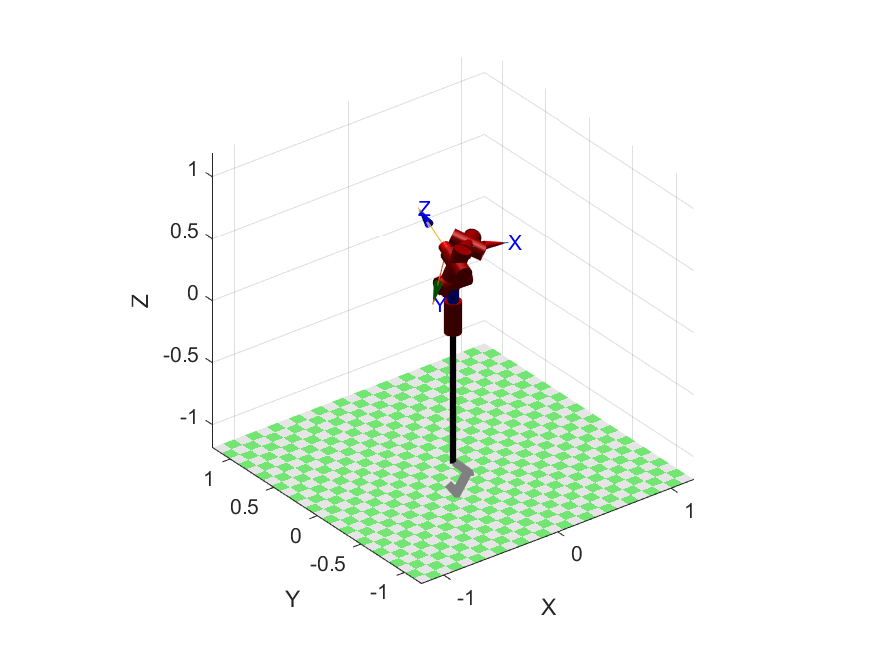
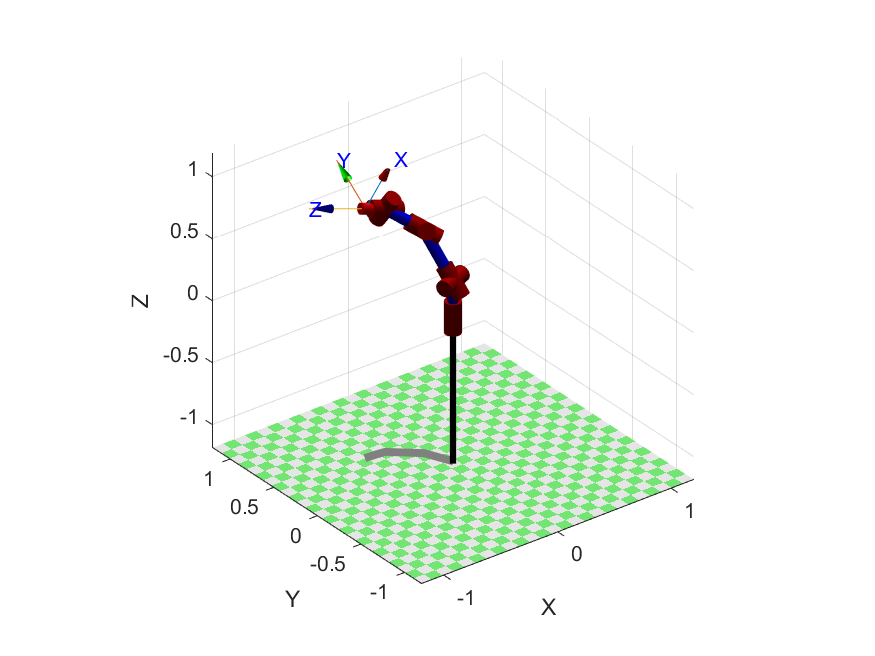
updates projeto-1

Changed region(s): [[0.3394, 0.2439, 0.5863, 0.4878], [0.4011, 0.6707, 0.5554, 0.7622], [0.3703, 0.2439, 0.4011, 0.2744]]

diff --git a/projetos/projeto-1/jacob_punho.m b/projetos/projeto-1/jacob_punho.m
@@ -1,0 +1,39 @@
+function [J05_real,J05]=jacob_punho(q)
+    kinova = kinova_punho_dh();
+    J05_real = kinova.jacob0(q);
+    
+    R01 = rotz(rad2deg(q(1)))*rotx(-90);
+    R02 = R01*rotx(90)*rotz(rad2deg(q(2)));
+    R03 = R02*rotx(-90)*rotz(rad2deg(q(3)));
+    R04 = R03*rotx(90)*rotz(rad2deg(q(4)));
+    
+    h1 = [0;0;1];
+    h2 = [0;0;1];
+    h3 = [0;0;1];
+    h4 = [0;0;1];
+    
+    h10 = R01*h1;
+    h20 = R02*h2;
+    h30 = R03*h3;
+    h40 = R04*h4;
+    
+    h10_hat = skew(h10);
+    h20_hat = skew(h20);
+    h30_hat = skew(h30);
+    h40_hat = skew(h40);
+    
+    p45 = [0;0;0.3413];
+    p34 = [0;0;0];
+    p23 = [0;0;0.4208];
+    p12 = [0;0;0];
+    
+    p450 = R04*p45
+    p350 = R03*p34+p450
+    p250 = R02*p23+p350
+    p150 = R01*p12+p250
+ 
+    J05 = [
+        h10_hat*p150 h20_hat*p250 h30_hat*p350 h40_hat*p450;
+        h10 h20 h30 h40
+        ];
+end

diff --git a/projetos/projeto-1/kinova_punho_dh.m b/projetos/projeto-1/kinova_punho_dh.m
@@ -1,0 +1,14 @@
+function kinova = kinova_punho_dh
+    clear all;
+    close all;
+    a = [0;0;0;0;0;0;0];
+    alpha = [-pi/2;pi/2;-pi/2;pi/2;-pi/2;pi/2;0];
+    d = [0.2848;0;0.4208;0;0.3143;0;0];
+    theta = [0;0;0;0;0;0;pi/2];
+    offset = [0;0;0;0;0;0;0];
+    %            theta    d           a      alpha  type mdh  offset
+    for i=1:7
+        L(i) = Link([theta(i) d(i) a(i) alpha(i) 0 offset(i)],'standard');
+    end
+    kinova = SerialLink(L,'name',' ');
+end

diff --git a/projetos/projeto-1/kinova_dh.m b/projetos/projeto-1/kinova_dh.m
@@ -1,3 +1,4 @@
+function kinova = kinova_dh()
 clear all;
 close all;
 a = [0;0;0;0;0;0;0];
@@ -19,3 +20,5 @@ kinova = SerialLink(L,'name',' ');
 %     saveas(gcf,"imgs/kinova_q"+int2str(i)+".png");
 %     close;
 % end
+
+end
